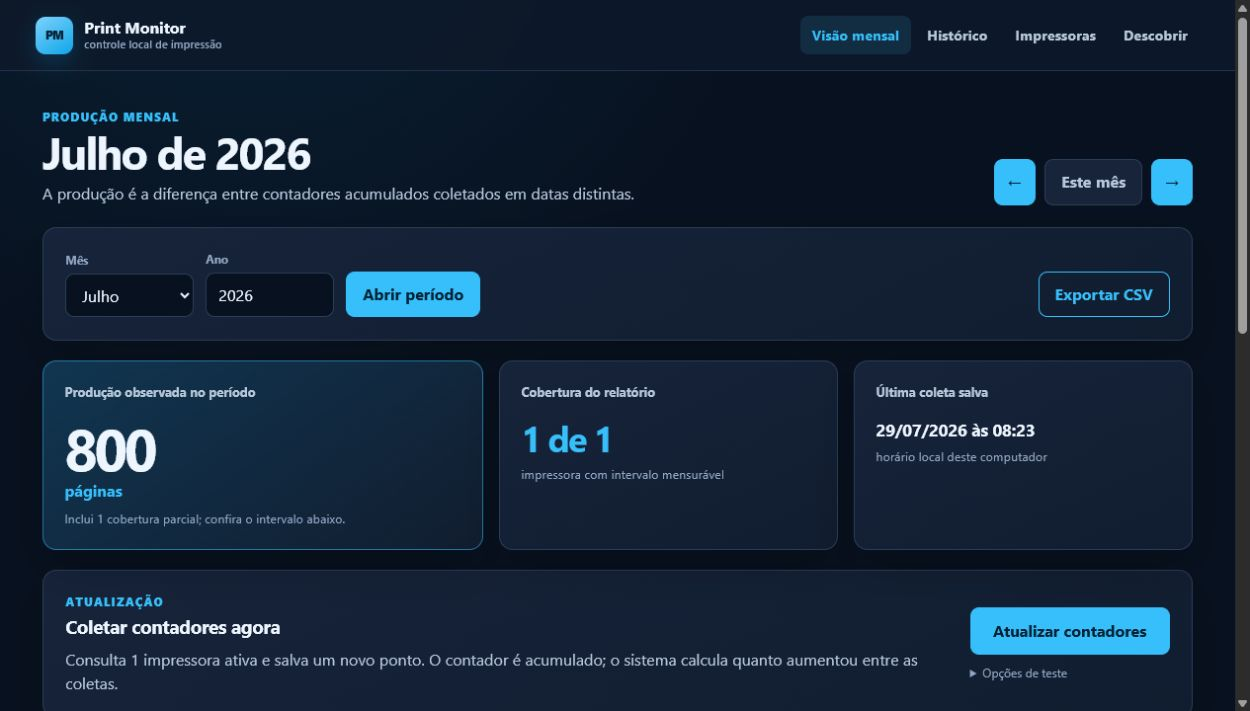
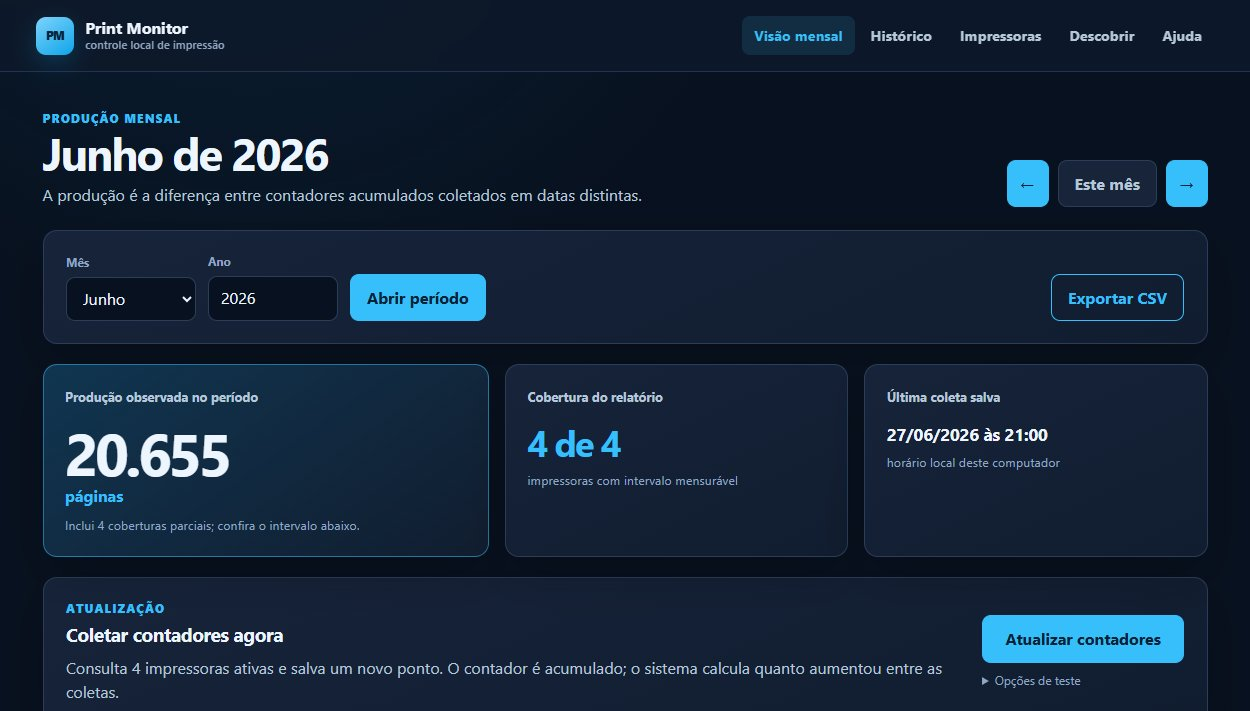
docs: print do README com os dados de demonstracao do seed
O print mostrava uma unica impressora e 800 paginas. Refeito com scripts/seed.py (quatro impressoras ficticias em 192.0.2.x, junho de 2026), no mesmo tamanho (1250x711). O texto alternativo citava um ranking que nao aparece na imagem e passa a descrever o que ela mostra.

diff --git a/README.md b/README.md
@@ -15,7 +15,7 @@ pela **diferença entre leituras**.
 
 > Exemplo: contador `120000` em 01/06 e `124500` em 30/06 → **4500 impressões**.
 
-![Dashboard do print-monitor-local com total mensal, ranking e filtros](docs/assets/dashboard.jpg)
+![Visão mensal do print-monitor-local com a produção do período, a cobertura das impressoras e a última coleta, nos dados de demonstração do seed](docs/assets/dashboard.jpg)
 
 <sub>Dashboard local com dados fictícios de demonstração.</sub>
 
